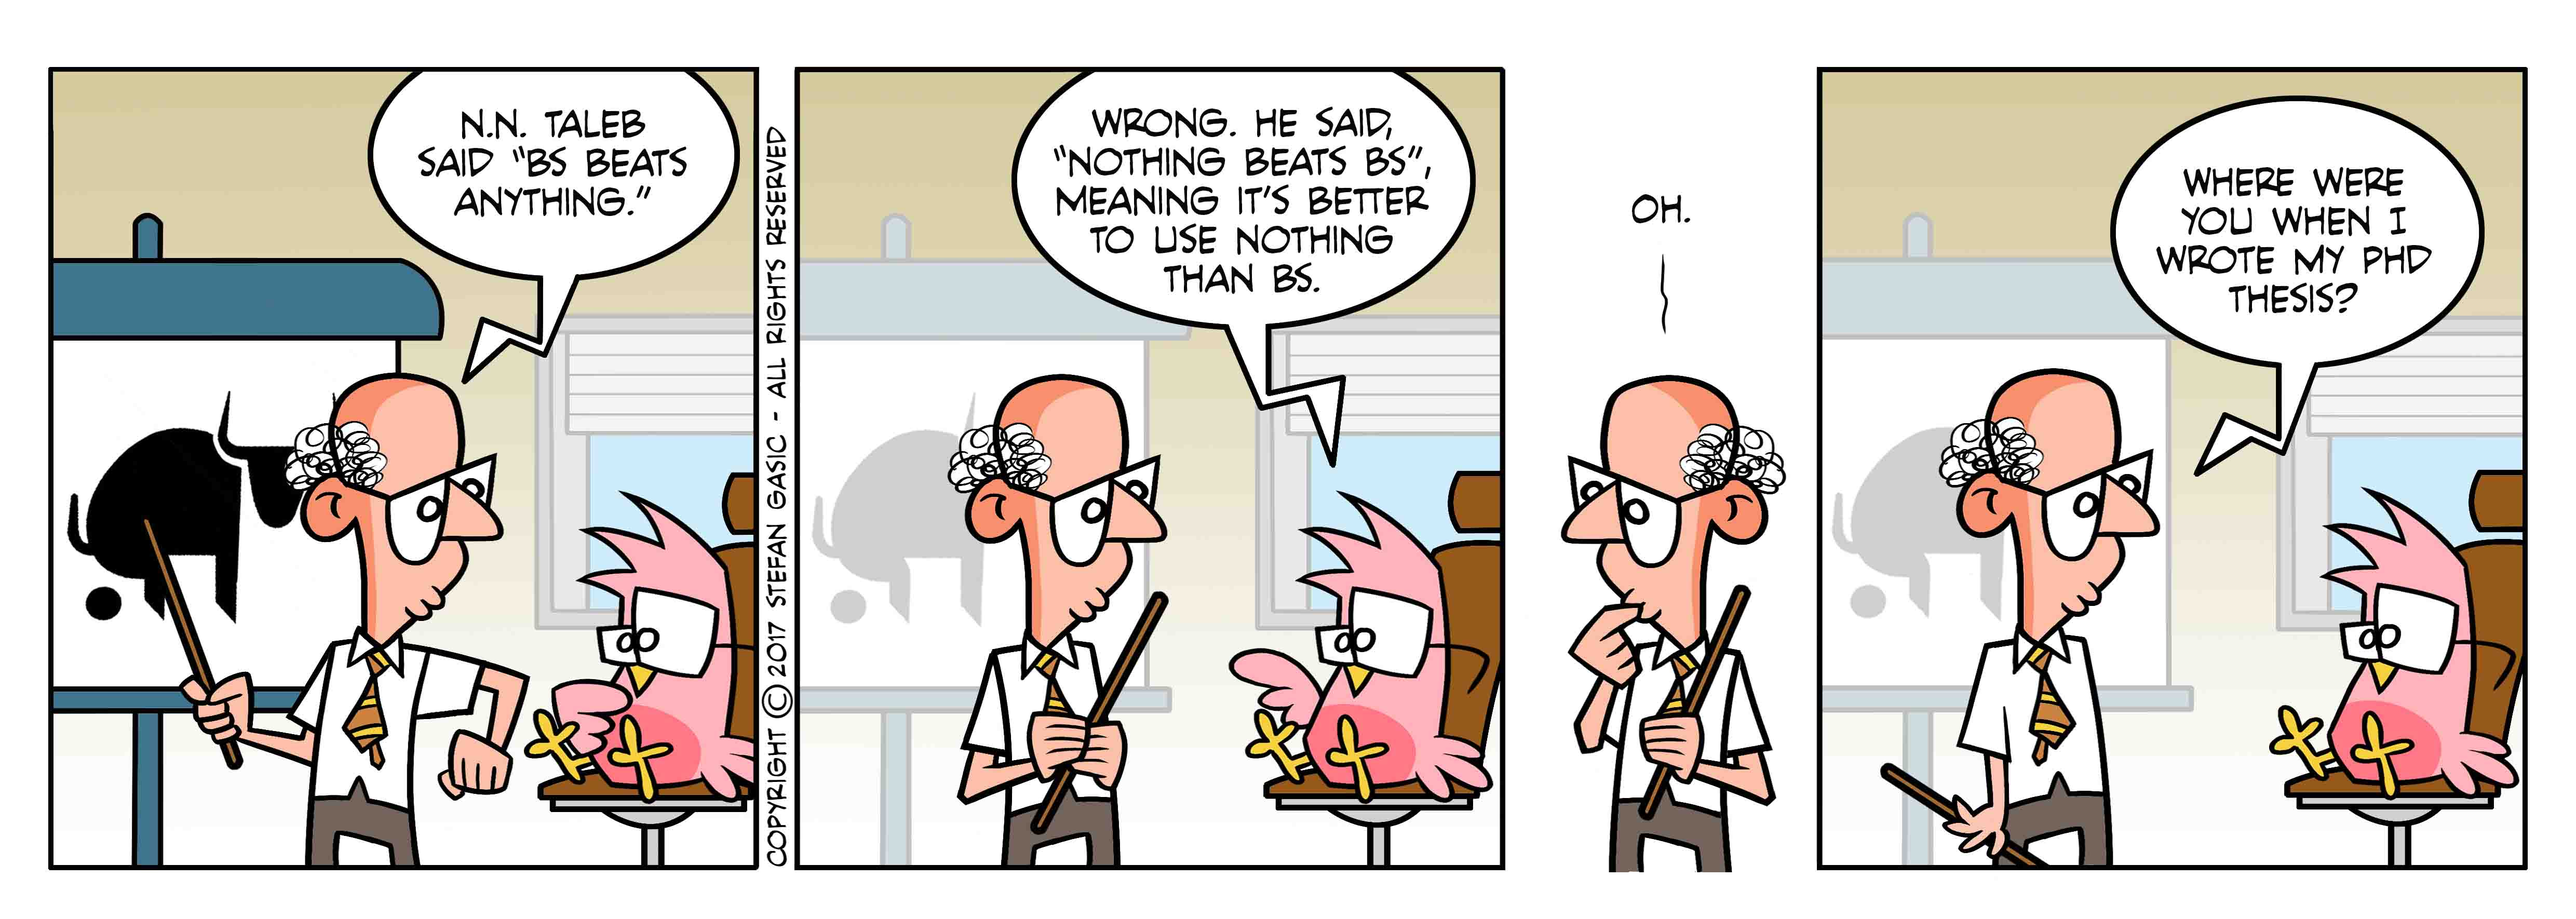
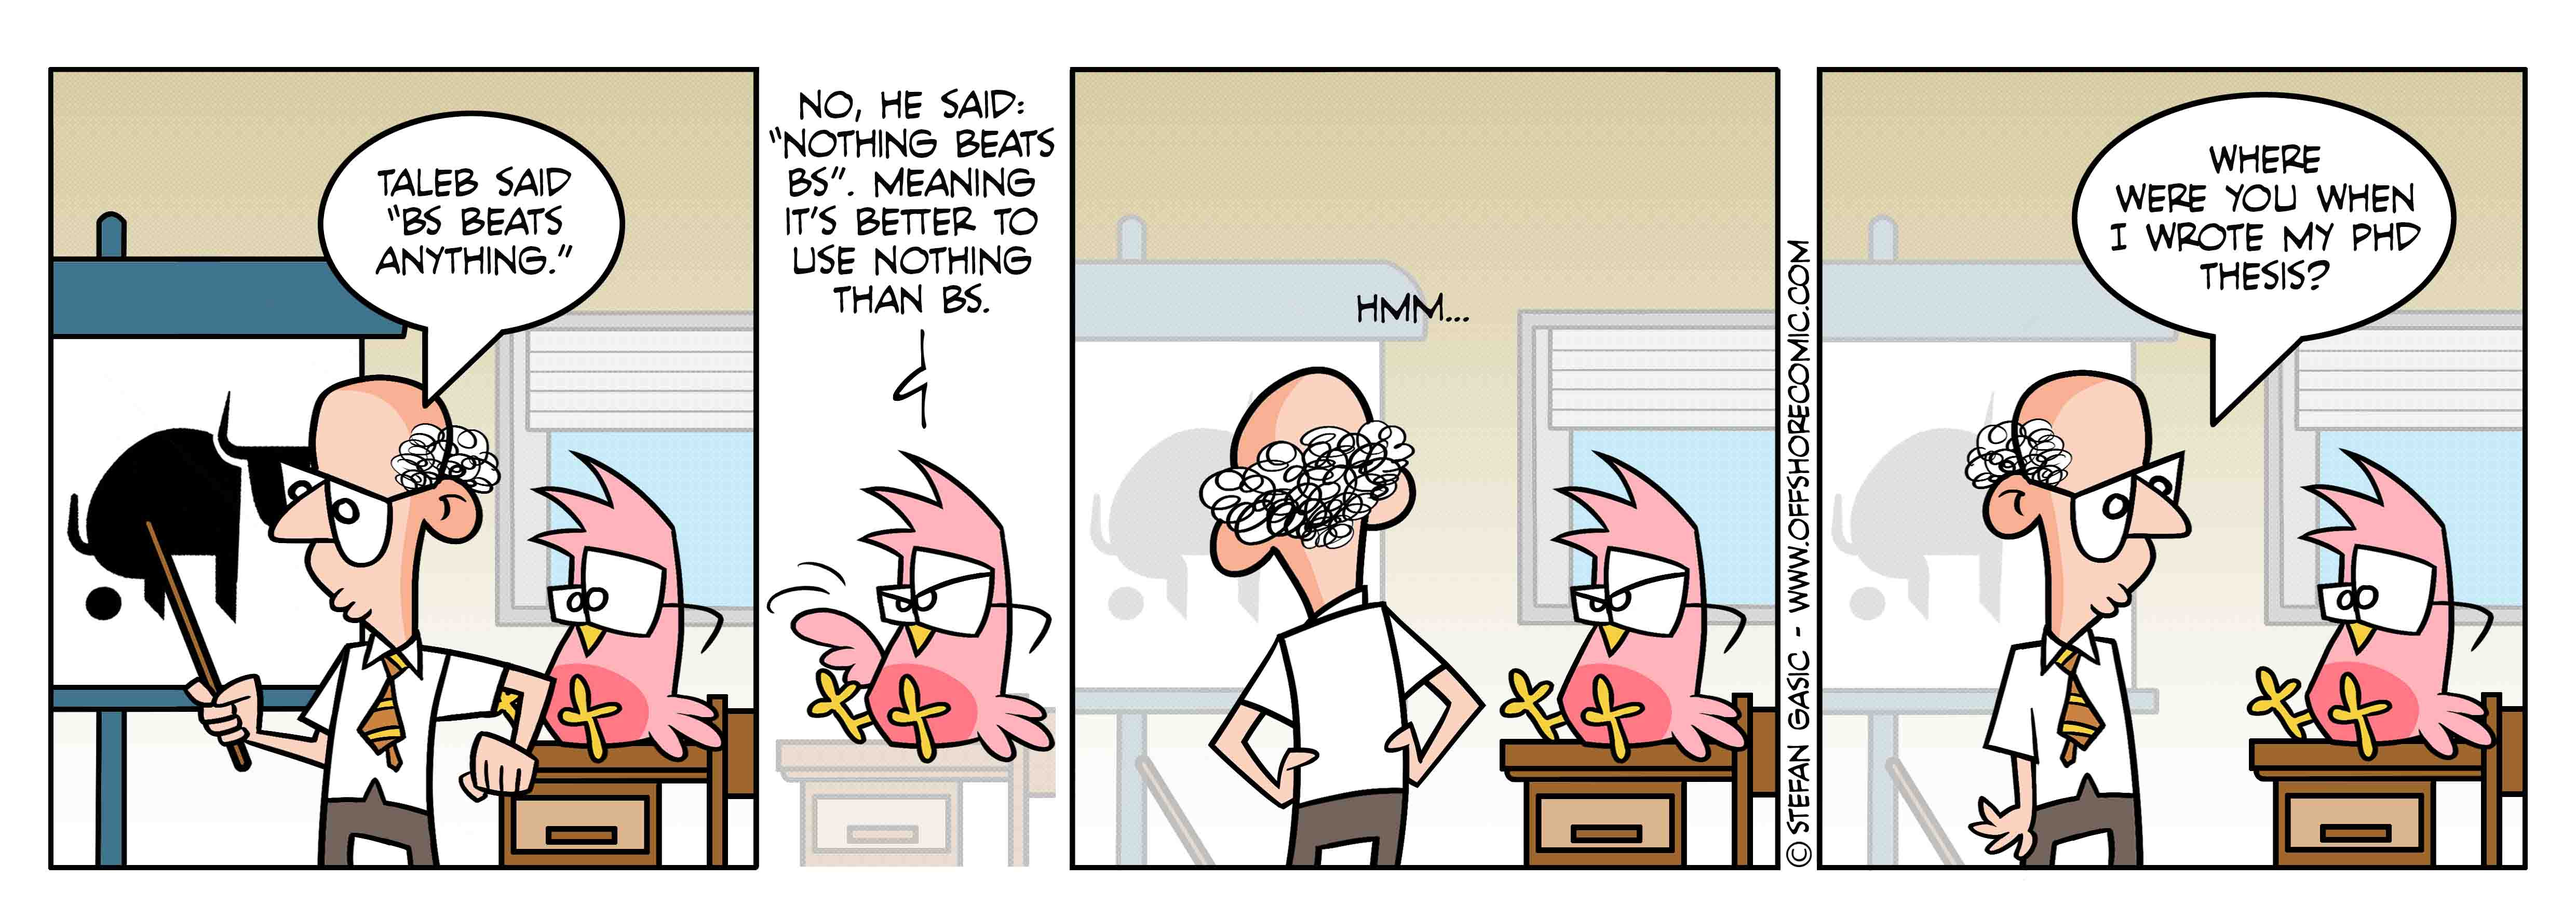
Added a new strip and updated the html and js codes accordingly.

diff --git a/myscripts.js b/myscripts.js
@@ -1,4 +1,4 @@
-var Strips = ["images/S386.jpg","images/S385.jpg","images/S384.jpg","images/S383.jpg","images/S382.jpg","images/S381.jpg","images/S380.jpg","images/S379.jpg","images/S378.jpg","images/S377.jpg","images/S376.jpg","images/S375.jpg","images/S374.jpg","images/S373.jpg","images/S372.jpg","images/S371.jpg","images/S370.jpg","images/S369.jpg","images/S368.jpg","images/S367.jpg","images/S366.jpg","images/S365.jpg","images/S364.jpg","images/S363.jpg","images/S362.jpg","images/S361.jpg","images/S360.jpg","images/S359.jpg","images/S358.jpg","images/S357.jpg","images/S356.jpg","images/S355.jpg","images/S354.jpg","images/S353.jpg","images/S352.jpg","images/S351.jpg","images/S350.jpg","images/S349.jpg","images/S348.jpg","images/S347.jpg","images/S346.jpg","images/S345.jpg","images/S344.jpg","images/S343.jpg","images/S342.jpg","images/S341.jpg","images/S340.jpg","images/S339.jpg","images/S338.jpg","images/S337.jpg","images/S336.jpg","images/S335.jpg","images/S334.jpg","images/S333.jpg","images/S332.jpg","images/S331.jpg","images/S330.jpg","images/S329.jpg","images/S328.jpg","images/S327.jpg","images/S326.jpg","images/S325.jpg","images/S324.jpg","images/S323.jpg","images/S322.jpg","images/S321.jpg","images/S320.jpg","images/S319.jpg","images/S318.jpg","images/S317.jpg","images/S316.jpg","images/S315.jpg","images/S314.jpg","images/S313.jpg","images/S312.jpg","images/S311.jpg","images/S310.jpg","images/S309.jpg","images/S308.jpg","images/S307.jpg","images/S306.jpg","images/S305.jpg","images/S304.jpg","images/S303.jpg","images/S302.jpg","images/S301.jpg","images/S300.jpg","images/S299.jpg","images/S298.jpg","images/S297.jpg","images/S296.jpg","images/S295.jpg","images/S294.jpg","images/S293.jpg","images/S292.jpg","images/S291.jpg","images/S290.jpg","images/S289.jpg","images/S288.jpg","images/S287.jpg","images/S286.jpg","images/S285.jpg","images/S284.jpg","images/S283.jpg","images/S282.jpg","images/S281.jpg","images/S280.jpg","images/S279.jpg","images/S278.jpg","images/S277.jpg","images/S276.jpg","images/S275.jpg","images/S274.jpg","images/S273.jpg","images/S272.jpg","images/S271.jpg","images/S270.jpg","images/S269.jpg","images/S268.jpg","images/S267.jpg","images/S266.jpg","images/S265.jpg","images/S264.jpg","images/S263.jpg","images/S262.jpg","images/S261.jpg","images/S260.jpg","images/S259.jpg","images/S258.jpg","images/S257.jpg","images/S256.jpg","images/S255.jpg","images/S254.jpg","images/S253.jpg","images/S252.jpg","images/S251.jpg","images/S250.jpg","images/S249.jpg","images/S248.jpg","images/S247.jpg","images/S246.jpg","images/S245.jpg","images/S244.jpg","images/S243.jpg","images/S242.jpg","images/S241.jpg","images/S240.jpg","images/S239.jpg","images/S238.jpg","images/S237.jpg","images/S236.jpg","images/S235.jpg","images/S234.jpg","images/S233.jpg","images/S232.jpg","images/S231.jpg","images/S230.jpg","images/S229.jpg","images/S228.jpg","images/S227.jpg","images/S226.jpg","images/S225.jpg","images/S224.jpg","images/S223.jpg","images/S222.jpg","images/S221.jpg","images/S220.jpg","images/S219.jpg","images/S218.jpg","images/S217.jpg","images/S216.jpg","images/S215.jpg","images/S214.jpg","images/S213.jpg","images/S212.jpg","images/S211.jpg","images/S210.jpg","images/S209.jpg","images/S208.jpg","images/S207.jpg","images/S206.jpg","images/S205.jpg","images/S204.jpg","images/S203.jpg","images/S202.jpg","images/S201.jpg","images/S200.jpg","images/S199.jpg","images/S198.jpg","images/S197.jpg","images/S196.jpg","images/S195.jpg","images/S194.jpg","images/S193.jpg","images/S192.jpg","images/S191.jpg","images/S190.jpg","images/S189.jpg","images/S188.jpg","images/S187.jpg","images/S186.jpg","images/S185.jpg","images/S184.jpg","images/S183.jpg","images/S182.jpg","images/S181.jpg","images/S180.jpg","images/S179.jpg","images/S178.jpg","images/S177.jpg","images/S176.jpg","images/S175.jpg","images/S174.jpg","images/S173.jpg","images/S172.jpg","images/S171.jpg","images/S170.jpg","images/S169.jpg","images/S168.jpg","images/S167.jpg","images/S166.jpg","images/S165.jpg","images/S164.jpg","images/S163.jpg","images/S162.jpg","images/S161.jpg","images/S160.jpg","images/S159.jpg","images/S158.jpg","images/S157.jpg","images/S156.jpg","images/S155.jpg","images/S154.jpg","images/S153.jpg","images/S152.jpg","images/S151.jpg","images/S150.jpg","images/S149.jpg","images/S148.jpg","images/S147.jpg","images/S146.jpg","images/S145.jpg","images/S144.jpg","images/S143.jpg","images/S142.jpg","images/S141.jpg","images/S140.jpg","images/S139.jpg","images/S138.jpg","images/S137.jpg","images/S136.jpg","images/S135.jpg","images/S134.jpg","images/S133.jpg","images/S132.jpg","images/S131.jpg","images/S130.jpg","images/S129.jpg","images/S128.jpg","images/S127.jpg","images/S126.jpg","images/S125.jpg","images/S124.jpg","images/S123.jpg","images/S122.jpg","images/S121.jpg","images/S120.jpg","images/S119.jpg","images/S118.jpg","images/S117.jpg","images/S116.jpg","images/S115.jpg","images/S114.jpg","images/S113.jpg","images/S112.jpg","images/S111.jpg","images/S110.jpg","images/S109.jpg","images/S108.jpg","images/S107.jpg","images/S106.jpg","images/S105.jpg","images/S104.jpg","images/S103.jpg","images/S102.jpg","images/S101.jpg","images/S100.jpg","images/S99.jpg","images/S98.jpg","images/S97.jpg","images/S96.jpg","images/S95.jpg","images/S94.jpg","images/S93.jpg","images/S92.jpg","images/S91.jpg","images/S90.jpg","images/S89.jpg","images/S88.jpg","images/S87.jpg","images/S86.jpg","images/S85.jpg","images/S84.jpg","images/S83.jpg","images/S82.jpg","images/S81.jpg","images/S80.jpg","images/S79.jpg","images/S78.jpg","images/S77.jpg","images/S76.jpg","images/S75.jpg","images/S74.jpg","images/S73.jpg","images/S72.jpg","images/S71.jpg","images/S70.jpg","images/S69.jpg","images/S68.jpg","images/S67.jpg","images/S66.jpg","images/S65.jpg","images/S64.jpg","images/S63.jpg","images/S62.jpg","images/S61.jpg","images/S60.jpg","images/S59.jpg","images/S58.jpg","images/S57.jpg","images/S56.jpg","images/S55.jpg","images/S54.jpg","images/S53.jpg","images/S52.jpg","images/S51.jpg","images/S50.jpg","images/S49.jpg","images/S48.jpg","images/S47.jpg","images/S46.jpg","images/S45.jpg","images/S44.jpg","images/S43.jpg","images/S42.jpg","images/S41.jpg","images/S40.jpg","images/S39.jpg","images/S38.jpg","images/S37.jpg","images/S36.jpg","images/S35.jpg","images/S34.jpg","images/S33.jpg","images/S32.jpg","images/S31.jpg","images/S30.jpg","images/S29.jpg","images/S28.jpg","images/S27.jpg","images/S26.jpg","images/S25.jpg","images/S24.jpg","images/S23.jpg","images/S22.jpg","images/S21.jpg","images/S20.jpg","images/S19.jpg","images/S18.jpg","images/S17.jpg","images/S16.jpg","images/S15.jpg","images/S14.jpg","images/S13.jpg","images/S12.jpg","images/S11.jpg","images/S10.jpg","images/S9.jpg","images/S8.jpg","images/S7.jpg","images/S6.jpg","images/S5.jpg","images/S4.jpg","images/S3.jpg","images/S2.jpg","images/S1.jpg"];
+var Strips = ["images/S387.jpg","images/S386.jpg","images/S385.jpg","images/S384.jpg","images/S383.jpg","images/S382.jpg","images/S381.jpg","images/S380.jpg","images/S379.jpg","images/S378.jpg","images/S377.jpg","images/S376.jpg","images/S375.jpg","images/S374.jpg","images/S373.jpg","images/S372.jpg","images/S371.jpg","images/S370.jpg","images/S369.jpg","images/S368.jpg","images/S367.jpg","images/S366.jpg","images/S365.jpg","images/S364.jpg","images/S363.jpg","images/S362.jpg","images/S361.jpg","images/S360.jpg","images/S359.jpg","images/S358.jpg","images/S357.jpg","images/S356.jpg","images/S355.jpg","images/S354.jpg","images/S353.jpg","images/S352.jpg","images/S351.jpg","images/S350.jpg","images/S349.jpg","images/S348.jpg","images/S347.jpg","images/S346.jpg","images/S345.jpg","images/S344.jpg","images/S343.jpg","images/S342.jpg","images/S341.jpg","images/S340.jpg","images/S339.jpg","images/S338.jpg","images/S337.jpg","images/S336.jpg","images/S335.jpg","images/S334.jpg","images/S333.jpg","images/S332.jpg","images/S331.jpg","images/S330.jpg","images/S329.jpg","images/S328.jpg","images/S327.jpg","images/S326.jpg","images/S325.jpg","images/S324.jpg","images/S323.jpg","images/S322.jpg","images/S321.jpg","images/S320.jpg","images/S319.jpg","images/S318.jpg","images/S317.jpg","images/S316.jpg","images/S315.jpg","images/S314.jpg","images/S313.jpg","images/S312.jpg","images/S311.jpg","images/S310.jpg","images/S309.jpg","images/S308.jpg","images/S307.jpg","images/S306.jpg","images/S305.jpg","images/S304.jpg","images/S303.jpg","images/S302.jpg","images/S301.jpg","images/S300.jpg","images/S299.jpg","images/S298.jpg","images/S297.jpg","images/S296.jpg","images/S295.jpg","images/S294.jpg","images/S293.jpg","images/S292.jpg","images/S291.jpg","images/S290.jpg","images/S289.jpg","images/S288.jpg","images/S287.jpg","images/S286.jpg","images/S285.jpg","images/S284.jpg","images/S283.jpg","images/S282.jpg","images/S281.jpg","images/S280.jpg","images/S279.jpg","images/S278.jpg","images/S277.jpg","images/S276.jpg","images/S275.jpg","images/S274.jpg","images/S273.jpg","images/S272.jpg","images/S271.jpg","images/S270.jpg","images/S269.jpg","images/S268.jpg","images/S267.jpg","images/S266.jpg","images/S265.jpg","images/S264.jpg","images/S263.jpg","images/S262.jpg","images/S261.jpg","images/S260.jpg","images/S259.jpg","images/S258.jpg","images/S257.jpg","images/S256.jpg","images/S255.jpg","images/S254.jpg","images/S253.jpg","images/S252.jpg","images/S251.jpg","images/S250.jpg","images/S249.jpg","images/S248.jpg","images/S247.jpg","images/S246.jpg","images/S245.jpg","images/S244.jpg","images/S243.jpg","images/S242.jpg","images/S241.jpg","images/S240.jpg","images/S239.jpg","images/S238.jpg","images/S237.jpg","images/S236.jpg","images/S235.jpg","images/S234.jpg","images/S233.jpg","images/S232.jpg","images/S231.jpg","images/S230.jpg","images/S229.jpg","images/S228.jpg","images/S227.jpg","images/S226.jpg","images/S225.jpg","images/S224.jpg","images/S223.jpg","images/S222.jpg","images/S221.jpg","images/S220.jpg","images/S219.jpg","images/S218.jpg","images/S217.jpg","images/S216.jpg","images/S215.jpg","images/S214.jpg","images/S213.jpg","images/S212.jpg","images/S211.jpg","images/S210.jpg","images/S209.jpg","images/S208.jpg","images/S207.jpg","images/S206.jpg","images/S205.jpg","images/S204.jpg","images/S203.jpg","images/S202.jpg","images/S201.jpg","images/S200.jpg","images/S199.jpg","images/S198.jpg","images/S197.jpg","images/S196.jpg","images/S195.jpg","images/S194.jpg","images/S193.jpg","images/S192.jpg","images/S191.jpg","images/S190.jpg","images/S189.jpg","images/S188.jpg","images/S187.jpg","images/S186.jpg","images/S185.jpg","images/S184.jpg","images/S183.jpg","images/S182.jpg","images/S181.jpg","images/S180.jpg","images/S179.jpg","images/S178.jpg","images/S177.jpg","images/S176.jpg","images/S175.jpg","images/S174.jpg","images/S173.jpg","images/S172.jpg","images/S171.jpg","images/S170.jpg","images/S169.jpg","images/S168.jpg","images/S167.jpg","images/S166.jpg","images/S165.jpg","images/S164.jpg","images/S163.jpg","images/S162.jpg","images/S161.jpg","images/S160.jpg","images/S159.jpg","images/S158.jpg","images/S157.jpg","images/S156.jpg","images/S155.jpg","images/S154.jpg","images/S153.jpg","images/S152.jpg","images/S151.jpg","images/S150.jpg","images/S149.jpg","images/S148.jpg","images/S147.jpg","images/S146.jpg","images/S145.jpg","images/S144.jpg","images/S143.jpg","images/S142.jpg","images/S141.jpg","images/S140.jpg","images/S139.jpg","images/S138.jpg","images/S137.jpg","images/S136.jpg","images/S135.jpg","images/S134.jpg","images/S133.jpg","images/S132.jpg","images/S131.jpg","images/S130.jpg","images/S129.jpg","images/S128.jpg","images/S127.jpg","images/S126.jpg","images/S125.jpg","images/S124.jpg","images/S123.jpg","images/S122.jpg","images/S121.jpg","images/S120.jpg","images/S119.jpg","images/S118.jpg","images/S117.jpg","images/S116.jpg","images/S115.jpg","images/S114.jpg","images/S113.jpg","images/S112.jpg","images/S111.jpg","images/S110.jpg","images/S109.jpg","images/S108.jpg","images/S107.jpg","images/S106.jpg","images/S105.jpg","images/S104.jpg","images/S103.jpg","images/S102.jpg","images/S101.jpg","images/S100.jpg","images/S99.jpg","images/S98.jpg","images/S97.jpg","images/S96.jpg","images/S95.jpg","images/S94.jpg","images/S93.jpg","images/S92.jpg","images/S91.jpg","images/S90.jpg","images/S89.jpg","images/S88.jpg","images/S87.jpg","images/S86.jpg","images/S85.jpg","images/S84.jpg","images/S83.jpg","images/S82.jpg","images/S81.jpg","images/S80.jpg","images/S79.jpg","images/S78.jpg","images/S77.jpg","images/S76.jpg","images/S75.jpg","images/S74.jpg","images/S73.jpg","images/S72.jpg","images/S71.jpg","images/S70.jpg","images/S69.jpg","images/S68.jpg","images/S67.jpg","images/S66.jpg","images/S65.jpg","images/S64.jpg","images/S63.jpg","images/S62.jpg","images/S61.jpg","images/S60.jpg","images/S59.jpg","images/S58.jpg","images/S57.jpg","images/S56.jpg","images/S55.jpg","images/S54.jpg","images/S53.jpg","images/S52.jpg","images/S51.jpg","images/S50.jpg","images/S49.jpg","images/S48.jpg","images/S47.jpg","images/S46.jpg","images/S45.jpg","images/S44.jpg","images/S43.jpg","images/S42.jpg","images/S41.jpg","images/S40.jpg","images/S39.jpg","images/S38.jpg","images/S37.jpg","images/S36.jpg","images/S35.jpg","images/S34.jpg","images/S33.jpg","images/S32.jpg","images/S31.jpg","images/S30.jpg","images/S29.jpg","images/S28.jpg","images/S27.jpg","images/S26.jpg","images/S25.jpg","images/S24.jpg","images/S23.jpg","images/S22.jpg","images/S21.jpg","images/S20.jpg","images/S19.jpg","images/S18.jpg","images/S17.jpg","images/S16.jpg","images/S15.jpg","images/S14.jpg","images/S13.jpg","images/S12.jpg","images/S11.jpg","images/S10.jpg","images/S9.jpg","images/S8.jpg","images/S7.jpg","images/S6.jpg","images/S5.jpg","images/S4.jpg","images/S3.jpg","images/S2.jpg","images/S1.jpg"];
 
 var Current = 0;
 var myStrip = null;

diff --git a/index.html b/index.html
@@ -42,7 +42,7 @@
         <div class="count">
           <strong><span id="currentCount"></span></strong> out of <strong><span id="totalCount"></span></strong>
         </div>
-		<div class="wrap-item1"><img src="images/S386.jpg" id="Strip"/></div>
+		<div class="wrap-item1"><img src="images/S387.jpg" id="Strip"/></div>
 		<div class="wrapper3">
 			<div class="wrap-item3">
 			<button class="button" onClick="Last();">&lsaquo;&lsaquo;</button>
